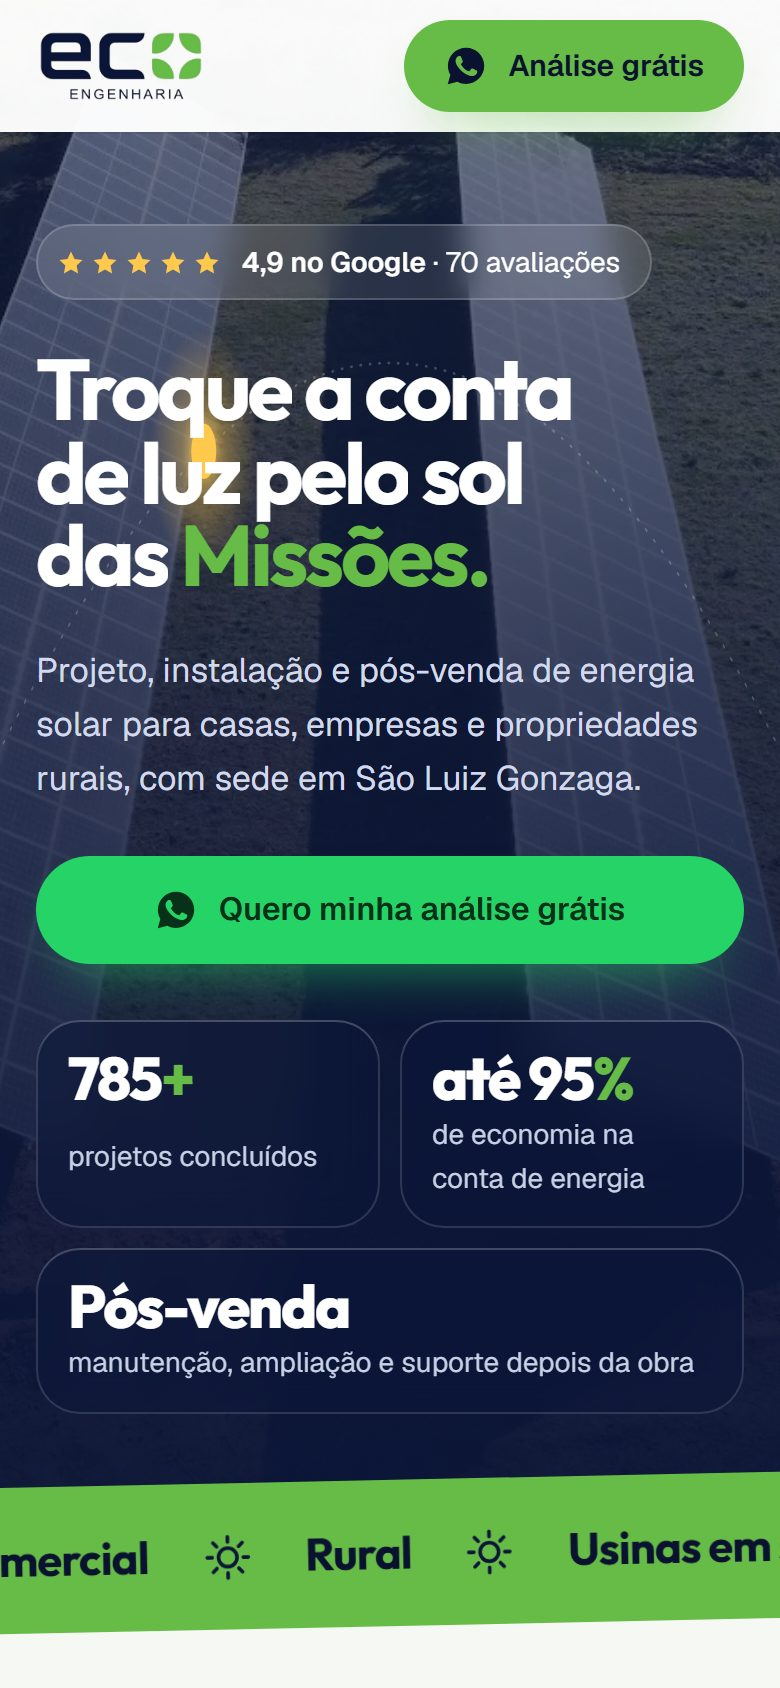
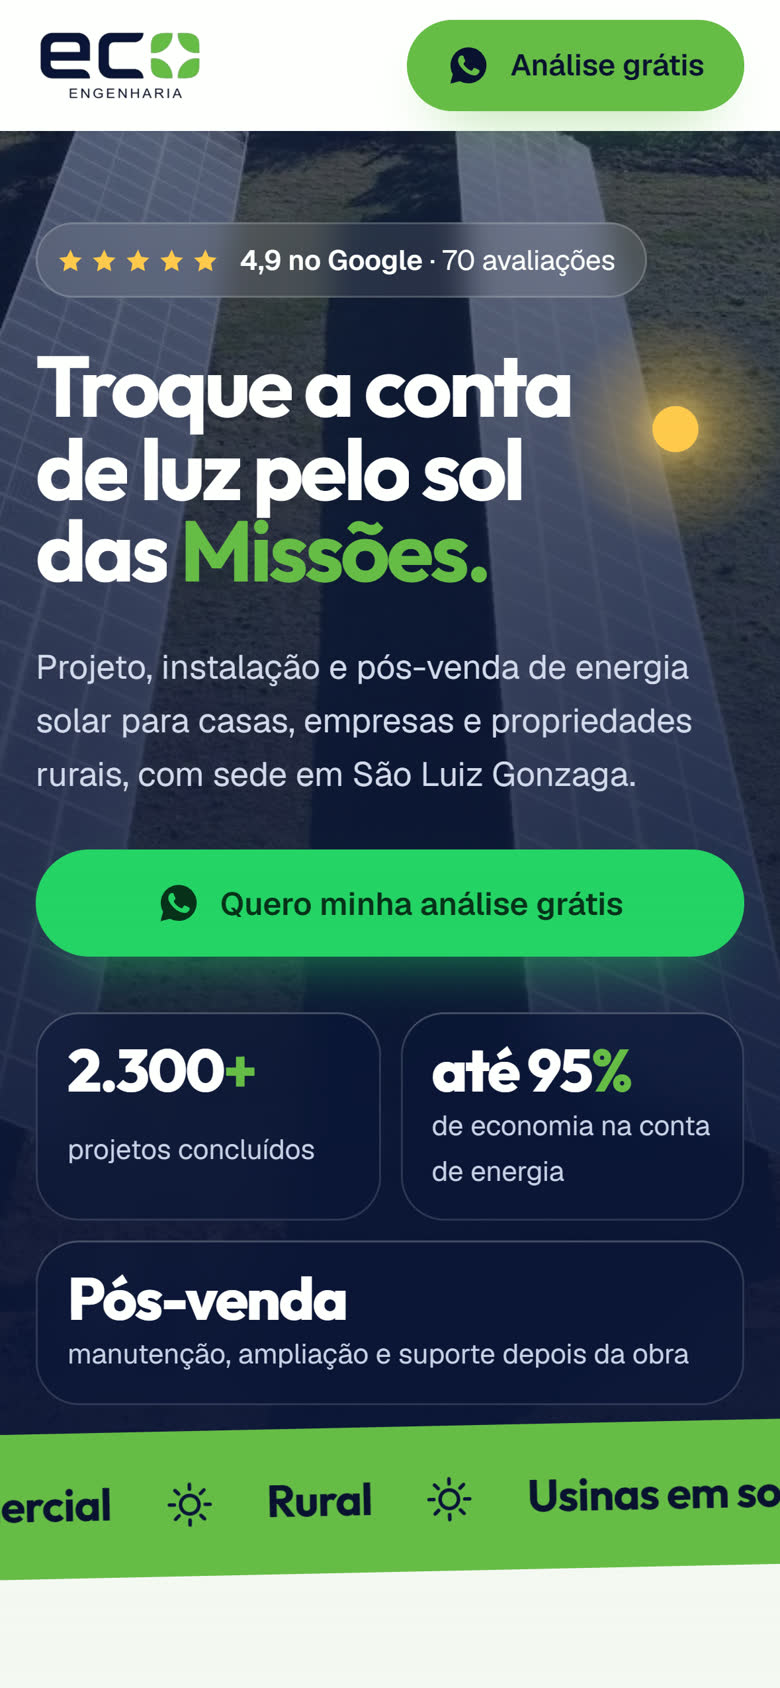
feat: Eco e Val como clientes, Thais e Danúbia nos exemplos
- Eco Engenharia Solar entra como cliente, com o domínio
  ecoengenhariasolar-rs.com.br e o pacote entregue; vira a 5ª cena da
  abertura (busca "energia solar são luiz gonzaga")
- Val Mega Hair passa de exemplo para cliente
- exemplos: entram Studio Thais Soares e Studio Danúbia Gonçalves
- números conferidos em 07/11: 34 projetos no ar, 25 páginas para
  negócios, 6 cidades
- prints novos da Eco (domínio), da Thais e da Danúbia

diff --git a/app/data/local.ts b/app/data/local.ts
@@ -51,6 +51,22 @@ export const clients: Client[] = [
     ],
   },
   {
+    slug: "ecosolar",
+    name: "Eco Engenharia Solar",
+    niche: "Energia solar",
+    city: "São Luiz Gonzaga",
+    url: "https://www.ecoengenhariasolar-rs.com.br/",
+    summary:
+      "Energia solar para casa, empresa e propriedade rural nas Missões. Fotos de drone das obras, mapa das cidades atendidas e um pedido de análise que já leva o valor da conta de luz para o WhatsApp.",
+    highlights: ["Domínio próprio", "Mapa das obras nas Missões", "Análise da conta de luz"],
+    delivered: [
+      "Domínio .com.br próprio",
+      "Google Search Console e sitemap",
+      "Google Analytics contando cada clique no WhatsApp",
+      "Site no perfil do Google e botão de avaliação",
+    ],
+  },
+  {
     slug: "trn",
     name: "TRN Autocar",
     niche: "Oficina mecânica",
@@ -87,9 +103,37 @@ export const clients: Client[] = [
       author: "Fagundes Manutenção, Alegrete",
     },
   },
+  {
+    slug: "val",
+    name: "Val Mega Hair",
+    niche: "Salão de beleza",
+    city: "São Borja",
+    url: "https://val-mega-hair-demo.vercel.app/",
+    summary:
+      "Especialista em mega hair e cor. As transformações reais das clientes aparecem numa galeria interativa, e a avaliação do cabelo é marcada direto no WhatsApp.",
+    highlights: ["Galeria de transformações", "Avaliação pelo WhatsApp"],
+    delivered: [
+      "Página com as transformações reais do salão",
+      "Avaliação marcada direto no WhatsApp",
+      "Link na bio do Instagram e arte para o story",
+    ],
+    quote: {
+      text: "Que lindo que ficou!",
+      author: "Val Santos, São Borja",
+    },
+  },
 ];
 
 export const examples: LocalSite[] = [
+  {
+    slug: "thais",
+    name: "Studio Thais Soares",
+    niche: "Sobrancelhas",
+    city: "Uruguaiana",
+    url: "https://thais-soares-demo.vercel.app/",
+    summary: "Antes e depois para arrastar em cada técnica de sobrancelha e lábios, e o horário montado com o serviço escolhido, direto no WhatsApp.",
+    highlights: ["Antes e depois", "Monte seu horário"],
+  },
   {
     slug: "optica",
     name: "Óptica Líder",
@@ -109,15 +153,6 @@ export const examples: LocalSite[] = [
     highlights: ["Prévia da unha", "Antes e depois"],
   },
   {
-    slug: "val",
-    name: "Val Mega Hair",
-    niche: "Salão de beleza",
-    city: "São Borja",
-    url: "https://val-mega-hair-demo.vercel.app/",
-    summary: "Transformações reais em galeria interativa e o cardápio do salão com foto que acompanha o mouse.",
-    highlights: ["Galeria de transformações", "Cardápio de serviços"],
-  },
-  {
     slug: "mundopet",
     name: "Mundo Pet",
     niche: "Pet shop e veterinária",
@@ -127,15 +162,6 @@ export const examples: LocalSite[] = [
     highlights: ["Antes e depois", "Ficha do pet"],
   },
   {
-    slug: "ecosolar",
-    name: "Eco Engenharia Solar",
-    niche: "Energia solar",
-    city: "São Luiz Gonzaga",
-    url: "https://eco-solar-demo.vercel.app/",
-    summary: "Fotos de drone das usinas, mapa interativo das obras nas Missões e pedido de análise da conta de luz.",
-    highlights: ["Mapa de projetos", "Fotos de drone"],
-  },
-  {
     slug: "koltermann",
     name: "Koltermann Peças Agrícolas",
     niche: "Peças agrícolas",
@@ -143,6 +169,15 @@ export const examples: LocalSite[] = [
     url: "https://koltermann-demo.vercel.app/",
     summary: "Tour 360° pela loja, montado com as fotos do próprio Google, e catálogo filtrado por lavoura, oficina e dia a dia.",
     highlights: ["Tour 360°", "Catálogo com filtros"],
+  },
+  {
+    slug: "danubia",
+    name: "Studio Danúbia Gonçalves",
+    niche: "Estética e depilação a laser",
+    city: "Itaqui",
+    url: "https://danubia-goncalves-demo.vercel.app/",
+    summary: "Mapa do corpo para montar a avaliação de depilação a laser: a cliente toca nas áreas e a mensagem chega pronta no WhatsApp.",
+    highlights: ["Mapa do corpo", "Laser Hakon 4D"],
   },
   {
     slug: "simao",
@@ -174,16 +209,17 @@ export const examples: LocalSite[] = [
 ];
 
 /**
- * Números conferidos em 05/11/2026 (curl 200 em cada endereço). Atualize quando mudarem.
- * 30 projetos no ar = 21 páginas para negócios (20 exemplos e clientes na Vercel + o
- * domínio da Eficaz) + 9 projetos próprios: Solved Scale, Avaliação Preventiva,
+ * Números conferidos em 07/11/2026 (curl 200 em cada endereço). Atualize quando mudarem.
+ * 34 projetos no ar = 25 páginas para negócios (23 exemplos e clientes na Vercel + os
+ * domínios da Eficaz e da Eco) + 9 projetos próprios: Solved Scale, Avaliação Preventiva,
  * App Master Class (HYROX), HYROX app, oferta HYROX Início de Mês, Take Um,
  * IA no Balcão, Heróis de Crochê e TikTok Shop Studio. O portfólio não conta.
+ * Cidades das 25 páginas: São Borja, Alegrete, Uruguaiana, São Luiz Gonzaga, Itaqui e Santo Ângelo.
  */
 export const stats: { value: number; prefix?: string; label: string; live?: boolean }[] = [
-  { value: 30, label: "projetos no ar hoje: sites, apps e páginas de venda", live: true },
-  { value: 21, label: "páginas feitas para negócios locais" },
-  { value: 4, label: "cidades: São Borja, Alegrete, São Luiz Gonzaga e Uruguaiana" },
+  { value: 34, label: "projetos no ar hoje: sites, apps e páginas de venda", live: true },
+  { value: 25, label: "páginas feitas para negócios locais" },
+  { value: 6, label: "cidades: São Borja, Alegrete, Uruguaiana, São Luiz Gonzaga, Itaqui e Santo Ângelo" },
   { value: 5, prefix: "+", label: "anos desenvolvendo para a web" },
 ];
 

diff --git a/app/data/profile.ts b/app/data/profile.ts
@@ -19,7 +19,7 @@ export const profile = {
     "Bacharel em Ciência da Computação (URI) e Analista de TI no Hospital Ivan Goulart. Atuo no desenvolvimento de aplicações web em Laravel e React e integro a equipe que administra os servidores e bancos de dados que as sustentam.",
   /** Parágrafos da biografia completa mostrada em /about. */
   fullBio: [
-    "Hoje também faço páginas para negócios de São Borja e região: oficinas, salões, contabilidade, comércio. Cada página usa as fotos reais do negócio, ganha domínio próprio, é configurada no Google e leva o cliente direto para o WhatsApp. Já são 21 páginas publicadas em quatro cidades, e 30 projetos meus no ar ao todo.",
+    "Hoje também faço páginas para negócios de São Borja e região: oficinas, salões, contabilidade, comércio. Cada página usa as fotos reais do negócio, ganha domínio próprio, é configurada no Google e leva o cliente direto para o WhatsApp. Já são 25 páginas publicadas em seis cidades, e 34 projetos meus no ar ao todo.",
     "Desenvolvo aplicações web full stack com foco em back-end. No servidor trabalho principalmente com PHP e Laravel — arquitetura MVC, ORM Eloquent, APIs REST e integração entre camadas — e uso Node.js com Express ou NestJS quando o projeto pede JavaScript no back-end. Na camada de dados, modelagem relacional em MySQL e PostgreSQL.",
     "No front-end construo interfaces com React e TypeScript, com Redux quando o estado cresce a ponto de justificar, e estilização em Tailwind ou Sass. Levo o ciclo inteiro: levantamento de requisitos, modelagem de dados, implementação, implantação e a manutenção corretiva e evolutiva depois que entra no ar.",
     "Hoje sou Analista de TI no Hospital Ivan Goulart, onde faço parte do desenvolvimento dos sistemas internos e da equipe que administra os servidores e bancos de dados onde essas aplicações rodam.",

diff --git a/app/components/local/HeroStory.tsx b/app/components/local/HeroStory.tsx
@@ -89,6 +89,20 @@ const scenes: Scene[] = [
     short: "Eficaz",
     message: "Bom dia! Sou produtor rural e quero falar sobre a contabilidade.",
   },
+  {
+    niche: "Energia solar",
+    query: "energia solar são luiz gonzaga",
+    title: "Eco Engenharia Solar · Energia solar nas Missões",
+    host: "ecoengenhariasolar-rs.com.br",
+    snippet: "Projeto, instalação e pós-venda para casas, empresas e propriedades rurais. Peça sua análise grátis.",
+    shot: "/projects/locais/ecosolar.jpg",
+    alt: "Página da Eco Engenharia Solar",
+    cta: [0.197, 0.89],
+    brand: "#67bc47",
+    initials: "ECO",
+    short: "Eco Engenharia",
+    message: "Oi! Vi a página e quero uma análise grátis da minha conta de luz.",
+  },
 ];
 
 type Stage = "typing" | "results" | "page" | "message";
